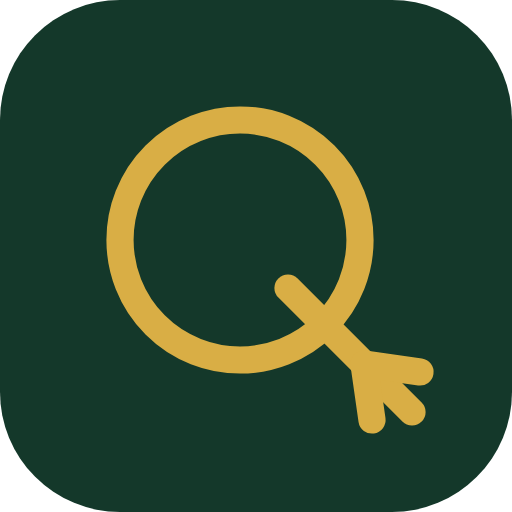
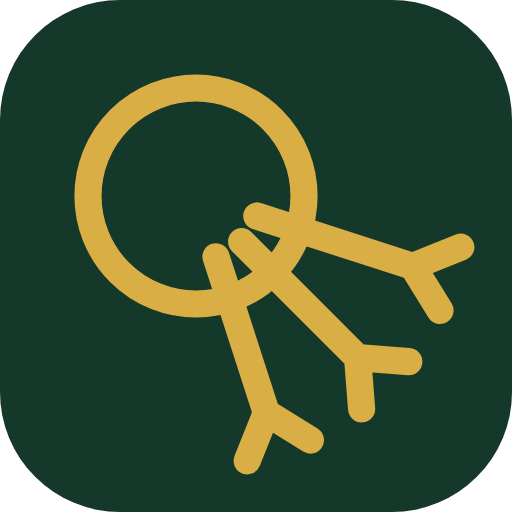
style(brand): fan three fletched arrows out of the Quiver mark
A quiver holds many arrows, but the mark showed a single fletched tail.
Three tails now fan out of the ring at 18°, 45°, and 72°, each ending in
a simple two-line feather chevron rather than the earlier splayed star —
three stars in one corner tangled into a knot at favicon size, while the
chevrons stay distinct down to 16px. The ring shrinks slightly and moves
up-left (r 13.5 at 24.5,24.5) to make room; colours, stroke, and badge
radius are unchanged. The 512px avatar is re-exported from the new mark.

Changed region(s): [[0.125, 0.125, 0.9375, 0.9375], [0.6562, 0.6562, 0.8438, 0.8438]]

diff --git a/web/src/components/Logo.jsx b/web/src/components/Logo.jsx
@@ -1,15 +1,16 @@
 // Tanda Quiver: monogram Q emas di lencana hijau hutan, dua warna solid. Lingkarannya
-// mulut quiver dilihat dari atas; ekor Q-nya ujung berbulu (fletching) anak panah di
-// dalamnya. Gambar yang sama dengan public/favicon.svg — kalau salah satu diubah, ubah
-// keduanya. Warna tetap (bukan currentColor) supaya konsisten di kedua tema.
+// mulut quiver dilihat dari atas; tiga ekor berbulu (fletching) anak panah mengipas
+// keluar darinya. Gambar yang sama dengan public/favicon.svg — kalau salah satu diubah,
+// ubah keduanya. Warna tetap (bukan currentColor) supaya konsisten di kedua tema.
 export function QuiverMark({ className = 'size-7' }) {
   return (
     <svg viewBox="0 0 64 64" className={className} aria-hidden="true">
       <rect width="64" height="64" rx="15" fill="#14382A" />
       <g fill="none" stroke="#D9AE45" strokeWidth="3.4" strokeLinecap="round" strokeLinejoin="round">
-        <circle cx="30" cy="30" r="15" />
-        <path d="M36 36 L51.5 51.5" />
-        <path d="M45.5 45.5 L46.5 52.5 M45.5 45.5 L52.5 46.5" />
+        <circle cx="24.5" cy="24.5" r="13.5" />
+        <path d="M32.1 27 L51.6 33.3 M51.6 33.3 L57.6 30.9 M51.6 33.3 L55 38.8" />
+        <path d="M30.2 30.2 L44.7 44.7 M44.7 44.7 L51.1 45.2 M44.7 44.7 L45.2 51.1" />
+        <path d="M27 32.1 L33.3 51.6 M33.3 51.6 L38.8 55 M33.3 51.6 L30.9 57.6" />
       </g>
     </svg>
   );
